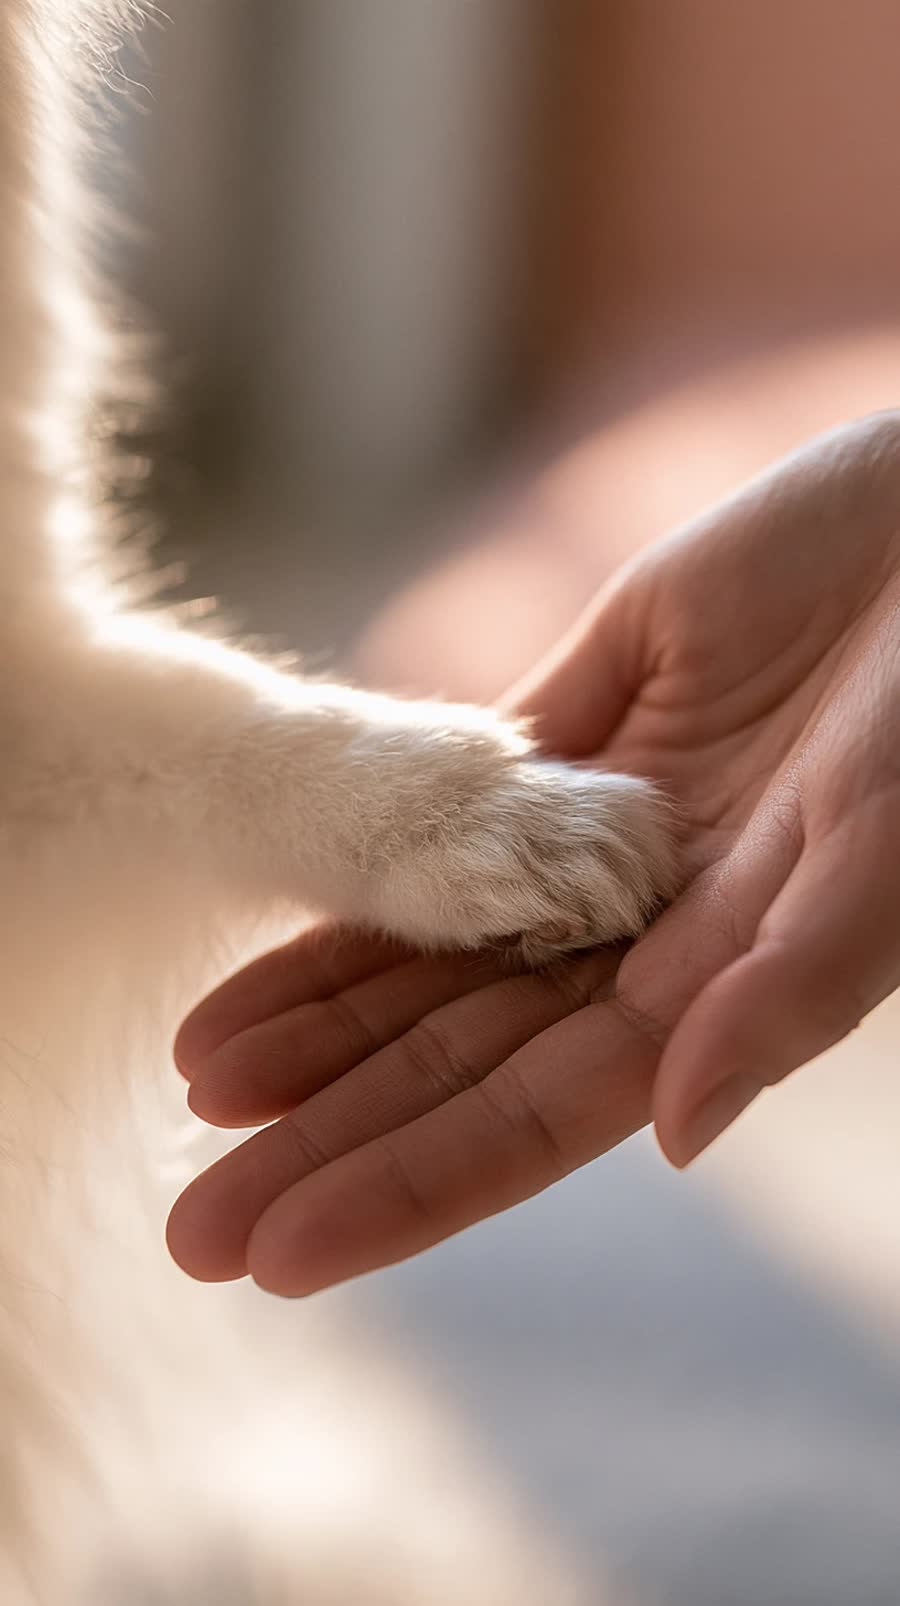
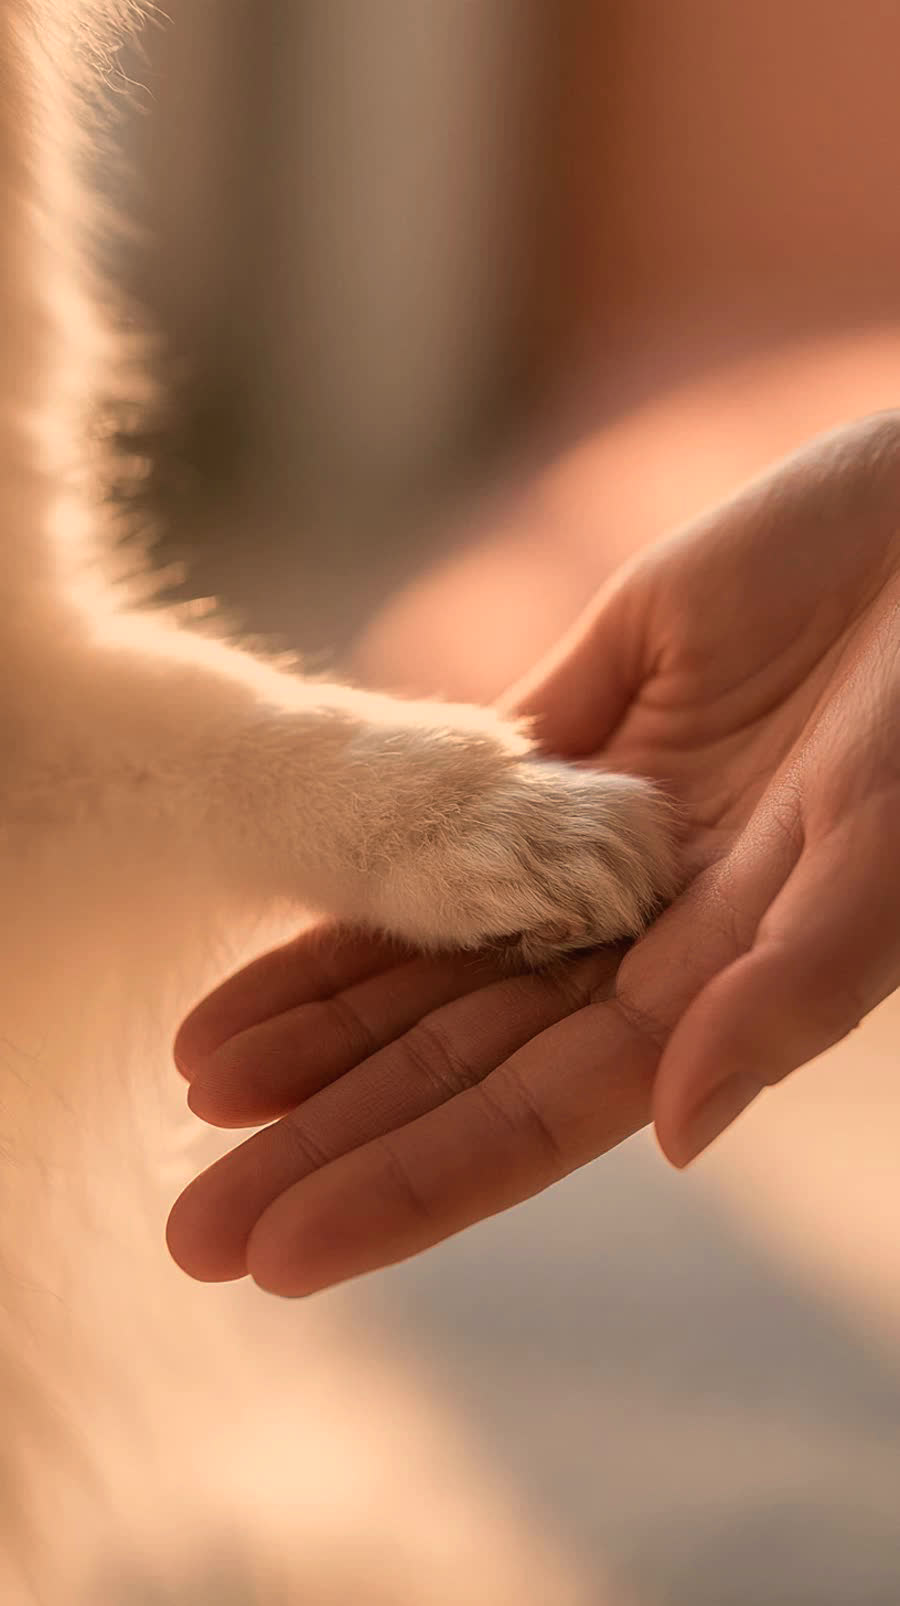
feat: 質問画面をスクロールなしで収め、背景を暖かい色味にする
スクロール解消:
- 文字・チップ・余白を画面の高さに応じて可変にした（vh基準のclamp）。
  最初 calc(100dvh / 1010) で倍率を作ろうとしたが、長さ÷数は長さに
  なり倍率として使えずレイアウトが潰れたため、各サイズを直接
  clamp(最小, Xvh, 最大) で書く形に改めた
- clampの最小値があるので、狭い画面でも読める大きさは保つ
- 入りきらない端末のために .ask-scroll のスクロールは残してある

暖かさ:
- 背景写真を色温度4500Kで暖色に寄せ、彩度と明るさを少し上げた
- 上に重ねるベールを純白からクリーム（255,246,236系）に変更
- チップの白もわずかに暖色寄りに

検証: 390x844 / 390x700 / 390x650 / 375x560 / 1440x900 の
いずれもスクロールなしで全体が収まることを確認。

Claude-Session: https://claude.ai/code/session_01B1xzVCD773ShRDVhFvpr4x

diff --git a/src/app/cheer/cheer.css b/src/app/cheer/cheer.css
@@ -69,6 +69,9 @@
 }
 
 /* ---------- ask（ロゴ＋お手の写真） ---------- */
+/* 縦にスクロールさせないため、文字・チップ・余白を画面の高さに
+   合わせて可変にする（clamp の最小値があるので潰れすぎない）。
+   それでも入りきらないときのために .ask-scroll は残してある */
 .cheer-root .ask {
   position: fixed;
   inset: 0;
@@ -83,7 +86,8 @@
   inset: 0;
   overflow-y: auto;
   overflow-x: hidden;
-  padding: max(20px, env(safe-area-inset-top)) 18px max(28px, env(safe-area-inset-bottom));
+  padding: max(clamp(8px, 1.9vh, 16px), env(safe-area-inset-top)) 18px
+    max(clamp(10px, 2.2vh, 20px), env(safe-area-inset-bottom));
 }
 /* 背景の写真。上に白のベールを重ねて、文字が読めるようにする */
 .cheer-root .ask-bg {
@@ -99,24 +103,24 @@
   inset: 0;
   background: linear-gradient(
     to bottom,
-    rgba(255, 255, 255, 0.42) 0%,
-    rgba(255, 255, 255, 0.62) 30%,
-    rgba(255, 255, 255, 0.78) 100%
+    rgba(255, 246, 236, 0.38) 0%,
+    rgba(255, 248, 240, 0.6) 30%,
+    rgba(255, 250, 243, 0.78) 100%
   );
 }
 .cheer-root .ask-logo {
   display: block;
-  width: 74%;
+  width: min(74%, 30vh);
   max-width: 300px;
   height: auto;
-  margin: 8px auto 24px;
+  margin: clamp(2px, 0.7vh, 6px) auto clamp(10px, 2.6vh, 22px);
 }
 
 /* ---------- ask ---------- */
 .cheer-root .q {
-  margin: 0 0 10px;
+  margin: 0 0 clamp(5px, 1.2vh, 10px);
   font-weight: 700;
-  font-size: 20px;
+  font-size: clamp(14px, 2.37vh, 20px);
 }
 /* 見出しの肉球。色は本文から継承する */
 .cheer-root .q i {
@@ -127,8 +131,8 @@
 .cheer-root .chips {
   display: flex;
   flex-wrap: wrap;
-  gap: 10px;
-  margin-bottom: 26px;
+  gap: clamp(5px, 1.07vh, 9px);
+  margin-bottom: clamp(12px, 2.84vh, 24px);
 }
 .cheer-root .ask .q {
   color: #3b3350;
@@ -147,12 +151,12 @@
 .cheer-root .chip {
   appearance: none;
   border: 0;
-  background: rgba(255, 255, 255, 0.88);
+  background: rgba(255, 252, 248, 0.9);
   color: #3b3350;
   font: inherit;
-  font-size: 17px;
+  font-size: clamp(13px, 2vh, 17px);
   font-weight: 500;
-  padding: 10px 18px;
+  padding: clamp(6px, 1.18vh, 10px) clamp(11px, 2vh, 17px);
   border-radius: 999px;
   cursor: pointer;
   transition: transform 0.12s, background 0.15s, color 0.15s;
@@ -177,9 +181,10 @@
   background: transparent;
   color: #3b3350;
   font: inherit;
-  font-size: 17px;
-  padding: 8px 2px;
-  margin-bottom: 6px;
+  /* 16px を下回るとiOSが入力時に勝手に拡大するので、ここだけ下限を置く */
+  font-size: clamp(16px, 2vh, 17px);
+  padding: clamp(5px, 0.95vh, 8px) 2px;
+  margin-bottom: clamp(3px, 0.7vh, 6px);
 }
 .cheer-root .note::placeholder {
   color: #8a80a6;
@@ -189,22 +194,22 @@
   border-bottom-color: var(--ch-peach);
 }
 .cheer-root .hint {
-  font-size: 13px;
+  font-size: clamp(11px, 1.54vh, 13px);
   color: var(--ch-sub);
-  margin: 0 0 28px;
+  margin: 0 0 clamp(12px, 2.6vh, 22px);
 }
 .cheer-root .go {
   display: block;
   width: 100%;
   appearance: none;
   border: 0;
-  border-radius: 22px;
+  border-radius: clamp(14px, 2.6vh, 22px);
   background: var(--ch-peach);
   color: var(--ch-peach-ink);
   font: inherit;
-  font-size: 19px;
+  font-size: clamp(15px, 2.25vh, 19px);
   font-weight: 700;
-  padding: 16px;
+  padding: clamp(10px, 1.78vh, 15px);
   cursor: pointer;
   box-shadow: var(--ch-shadow);
   transition: transform 0.12s, opacity 0.2s;
